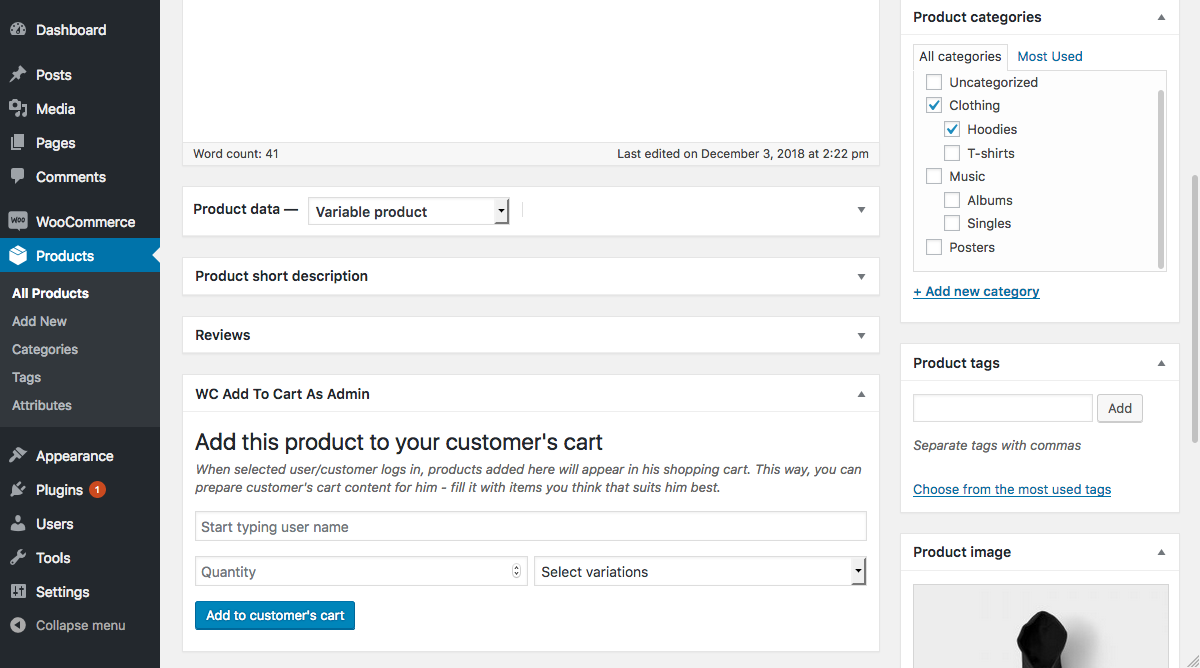
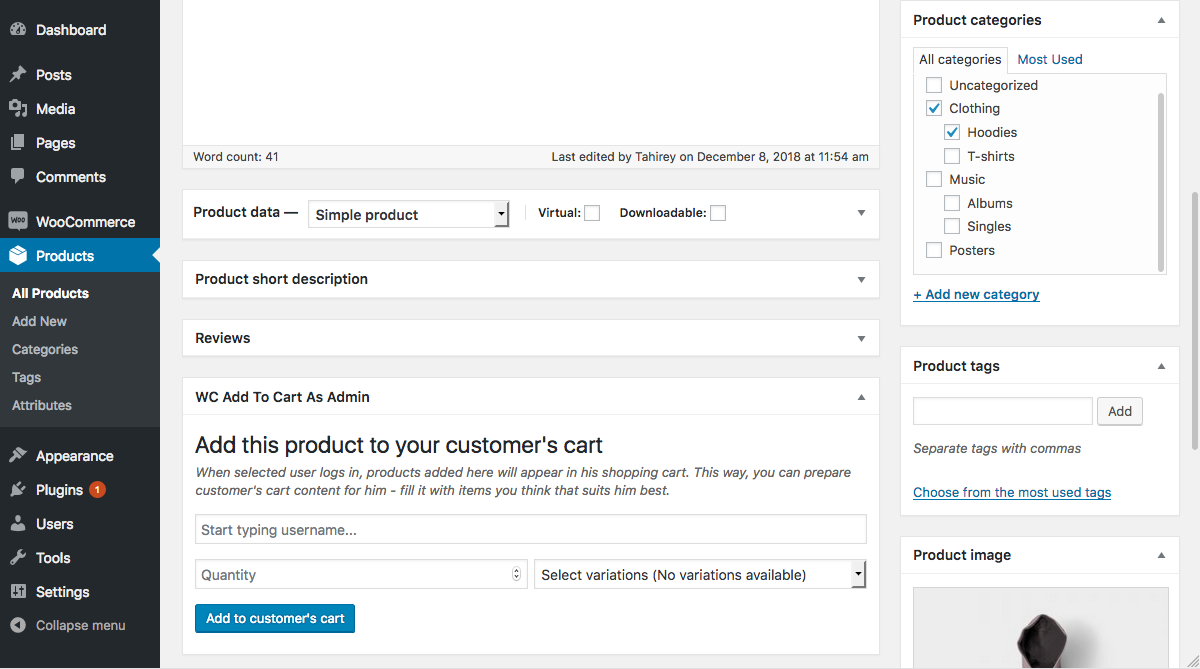
Fix and/or update meta box update Info messages, howto text, readme.txt, typos and comments
Remove unnecessary comments
 Fix typos
 Update info messages in ATCAA Meta Box to be more accurate, understandable and self-explainable
 Update info messages behavior in ATCAA meta box to make more logical
 Update and improve howto explanations on ATCAA Overview page and in ATCAA Meta Box
 Update readme.txt description, stable tag, tested up to, known issues and plans for the future.
 Add Changelog and Upgrade Notice sections to readme.txt
 Update ATCAA_VERSION variable
 Update screenshots relevant to these changes

diff --git a/admin/class-atcaa-admin.php b/admin/class-atcaa-admin.php
@@ -113,13 +113,13 @@ class ATCAA_admin
         <!-- Description -->
         <div class='atcaa-title-and-description'>
             <h1>" . __('Add this product to your customer\'s cart', ATCAA_TEXT_DOMAIN) . "</h1>
-            <span class='howto'>" . __('When selected user/customer logs in, products added here will appear in his shopping cart. 
+            <span class='howto'>" . __('When selected user logs in, products added here will appear in his shopping cart. 
             This way, you can prepare customer\'s cart content for him - fill it with items you think that suits him best. ', ATCAA_TEXT_DOMAIN) . "</span>
         </div>
 
         <!-- ATCAA form fields -->
         <div class='atcaa-form'>
-            <input  type='text' name='user_name' id='user_name' placeholder='" . __('Start typing user name', ATCAA_TEXT_DOMAIN) . "' form=" . self::FORM_ID . " />
+            <input  type='text' name='user_name' id='user_name' placeholder='" . __('Start typing username...', ATCAA_TEXT_DOMAIN) . "' form=" . self::FORM_ID . " />
             <input  type='number' name='quantity' id='quantity' placeholder='" . __('Quantity', ATCAA_TEXT_DOMAIN) . "' form=" . self::FORM_ID . " />
             <select type='text' name='variations' title='Variations' form=" . self::FORM_ID . "> " . self::render_dropdown_options() . "</select>" . "
             <input  type='hidden' name='product_id' value=" . wc_get_product()->get_id() . " form=" . self::FORM_ID . " />
@@ -172,7 +172,7 @@ class ATCAA_admin
 
         /* Get names */
         $name = $wpdb->esc_like(stripslashes($_POST['user_name'])) . '%'; // escape for use in LIKE statement
-        $query = "SELECT * FROM {$wpdb->prefix}users WHERE display_name LIKE %s ORDER BY user_login ASC"; //todo add dynamic prefix
+        $query = "SELECT * FROM {$wpdb->prefix}users WHERE display_name LIKE %s ORDER BY user_login ASC";
 
         $query = $wpdb->prepare($query, $name);
 
@@ -197,7 +197,7 @@ class ATCAA_admin
     {
 
         global $wpdb;
-        $error_string = $price = $product_level_stock = $stock_status = '';
+        $error_string = $price = $product_level_stock = $stock_status = $incompatible_product_type = '';
 
         /* Required fields validation */
         $empty_fields = array();
@@ -218,77 +218,86 @@ class ATCAA_admin
         $product_id = atcaa_prepare($_POST["product_id"]);
         $user_name = atcaa_prepare($_POST["user_name"]);
         $variation_id = atcaa_prepare($_POST["variations"]);
+        if ($variation_id !== '') {
+            $product_id = $variation_id;
+        }
 
 
         /* Get product info relevant for input validation */
         $product_level_stock = get_post_meta($product_id, '_manage_stock', true);
         $stock_status = get_post_meta($product_id, '_stock_status', true);
         $price = get_post_meta($product_id, '_price', true);
-        $variation_price = get_post_meta($variation_id, '_price', true);
-        $variation_stock_status = get_post_meta($variation_id, '_stock_status', true);
+        $_product = wc_get_product( $product_id );
+        if( $_product->is_type( 'grouped') || $_product->is_type( 'external') ) {
+            $incompatible_product_type = true;
+        }
 
 
         /* Start building $error_string */
-        if ($empty_fields !== "") {
-            $error_string .= "<div class='atcaa-message atcaa-message-error'>" . __('Cart could not be updated. Field(s) ', ATCAA_TEXT_DOMAIN) . "<b>" . $empty_fields . "</b>" . __(' is/are required. Please try again.', ATCAA_TEXT_DOMAIN) . "</div>";
+        if ($_product->is_type( 'grouped')) {
+            $error_string .= "<div class='atcaa-message atcaa-message-error'>" . __('Sorry, this plugin is not compatible with ', ATCAA_TEXT_DOMAIN) . "<b>" . __('grouped ', ATCAA_TEXT_DOMAIN) . "</b>" . __('product type.', ATCAA_TEXT_DOMAIN) . "</div>";
         }
 
-        if ($too_long_fields !== "") {
-            $error_string .= "<div class='atcaa-message atcaa-message-error'>" . __('Cart could not be updated. Field(s) ', ATCAA_TEXT_DOMAIN) . "<b>" . $too_long_fields . "</b>" . __(' is/are too long. Please try again.', ATCAA_TEXT_DOMAIN) . "</div>";;
+        if ($_product->is_type( 'external')) {
+            $error_string .= "<div class='atcaa-message atcaa-message-error'>" . __('You cannot add ', ATCAA_TEXT_DOMAIN) . "<b>" . __('external ', ATCAA_TEXT_DOMAIN) . "</b>" . __('product to user\'s cart.', ATCAA_TEXT_DOMAIN) . "</div>";
         }
 
-        /* Don't even start checking anything related to price and stock of 'product level stock' option is turned on */
         if ($product_level_stock !== 'no') {
-            $error_string .= "<div class='atcaa-message atcaa-message-error'>" . __('Cart could not be updated. WC Add To Cart As Admin plugin is not compatible with', ATCAA_TEXT_DOMAIN) . "<b>" . __(' stock management at product level', ATCAA_TEXT_DOMAIN) . "</b>" . __(' WooCommerce option.', ATCAA_TEXT_DOMAIN) . "</div>";
-        } else {
+            $error_string .= "<div class='atcaa-message atcaa-message-error'>" . __('Sorry, this plugin is not compatible with', ATCAA_TEXT_DOMAIN) . "<b>" . __(' stock management at product level', ATCAA_TEXT_DOMAIN) . "</b>" . __(' WooCommerce option.', ATCAA_TEXT_DOMAIN) . "</div>";
+        }
 
-            /* Check price and stock status for simple products */
-            if ($variation_id == '') {
-                if ($price == '') {
-                    $error_string .= "<div class='atcaa-message atcaa-message-error'>" . __('Cart could not be updated.', ATCAA_TEXT_DOMAIN) . "<b>" . __(' Items without price', ATCAA_TEXT_DOMAIN) . "</b>" . __(' cannot be added to user cart.', ATCAA_TEXT_DOMAIN) . "</div>";
-                }
-                if($stock_status !== 'instock') {
-                    $error_string .= "<div class='atcaa-message atcaa-message-error'>" . __('Cart could not be updated. Item is currently', ATCAA_TEXT_DOMAIN) . "<b>" . __(' out of stock.', ATCAA_TEXT_DOMAIN) . "</b></div>";
-                }
 
-            /* Check price and stock status for variable products */
-            } else {
-                if ($variation_price == '') {
-                    $error_string .= "<div class='atcaa-message atcaa-message-error'>" . __('Cart could not be updated.', ATCAA_TEXT_DOMAIN) . "<b>" . __(' Items without price', ATCAA_TEXT_DOMAIN) . "</b>" . __(' cannot be added to user cart.', ATCAA_TEXT_DOMAIN) . "</div>";
-                }
-                if($variation_stock_status !== 'instock') {
-                    $error_string .= "<div class='atcaa-message atcaa-message-error'>" . __('Cart could not be updated. Item is currently', ATCAA_TEXT_DOMAIN) . "<b>" . __(' out of stock.', ATCAA_TEXT_DOMAIN) . "</b></div>";
-                }
+        /* Don't even start checking anything if 'product level stock' option is turned on, or if product type is incompatible with this plugin */
+        if ($product_level_stock == 'no' && $incompatible_product_type !== true) {
+
+            if ($empty_fields !== "") {
+                $error_string .= "<div class='atcaa-message atcaa-message-error'>" . __('Field(s) ', ATCAA_TEXT_DOMAIN) . "<b>" . $empty_fields . "</b>" . __(' is/are required. Please try again.', ATCAA_TEXT_DOMAIN) . "</div>";
             }
-        }
 
-        $query = "SELECT ID FROM {$wpdb->prefix}users WHERE display_name = '$user_name' LIMIT 1";
-        $user_id = $wpdb->get_results($query);
+            if ($too_long_fields !== "") {
+                $error_string .= "<div class='atcaa-message atcaa-message-error'>" . __('Field(s) ', ATCAA_TEXT_DOMAIN) . "<b>" . $too_long_fields . "</b>" . __(' is/are too long. Please try again.', ATCAA_TEXT_DOMAIN) . "</div>";
+            }
+
+            if ($price == '') {
+                $error_string .= "<div class='atcaa-message atcaa-message-error'><b>" . __(' Items without price ', ATCAA_TEXT_DOMAIN) . "</b>" . __('cannot be added to user cart.', ATCAA_TEXT_DOMAIN) . "</div>";
+            }
+
+            if($stock_status !== 'instock') {
+                $error_string .= "<div class='atcaa-message atcaa-message-error'>" . __('Item is currently', ATCAA_TEXT_DOMAIN) . "<b>" . __(' out of stock.', ATCAA_TEXT_DOMAIN) . "</b></div>";
+            }
+
+            $query = "SELECT ID FROM {$wpdb->prefix}users WHERE display_name = '$user_name' LIMIT 1";
+            $user_id = $wpdb->get_results($query);
 
 
-        if (count($user_id) == 0 && $user_name !== '') {
-            $error_string .=  "<div class='atcaa-message atcaa-message-error'>" . __('User ', ATCAA_TEXT_DOMAIN) . "<b>" . $user_name . "</b>" . __(' does not exists. Please try again.', ATCAA_TEXT_DOMAIN) . "</div>";
-        }
+            if (count($user_id) == 0 && $user_name !== '') {
+                $error_string .=  "<div class='atcaa-message atcaa-message-error'>" . __('User ', ATCAA_TEXT_DOMAIN) . "<b>" . $user_name . "</b>" . __(' does not exists. Please try again.', ATCAA_TEXT_DOMAIN) . "</div>";
+            }
 
 
-        /* Execute if $error_string is empty */
-        if ($error_string == '') {
-            $query = "INSERT INTO {$wpdb->prefix}atcaa_prepared_items (";
-            $query .= "user_id, quantity, product_id, variation_id";
-            $query .= ") values ('";
-            $query .= $user_id[0]->ID . "', '";
-            $query .= $quantity . "', '";
-            $query .= $product_id . "', '";
-            $query .= $variation_id . "')";
+            /* Execute if $error_string is empty */
+            if ($error_string == '') {
+                $query = "INSERT INTO {$wpdb->prefix}atcaa_prepared_items (";
+                $query .= "user_id, quantity, product_id, variation_id";
+                $query .= ") values ('";
+                $query .= $user_id[0]->ID . "', '";
+                $query .= $quantity . "', '";
+                $query .= $product_id . "', '";
+                $query .= $variation_id . "')";
 
-            $wpdb->get_results($query);
+                $wpdb->get_results($query);
 
-            if ($wpdb->last_error) {
-                $error_string .= "<div class='atcaa-message atcaa-message-error'>" . __('Could not connect: ', ATCAA_TEXT_DOMAIN) . $wpdb->last_error . "</div>";
+                if ($wpdb->last_error) {
+                    $error_string .= "<div class='atcaa-message atcaa-message-error'>" . __('Could not connect: ', ATCAA_TEXT_DOMAIN) . $wpdb->last_error . "</div>";
+                    echo $error_string;
+                } else {
+                    echo "<div class='atcaa-message atcaa-message-success'>" . $user_name . __(' cart will be updated on login. ', ATCAA_TEXT_DOMAIN) . "<a href='" . admin_url( 'admin.php?page=wc-add-to-cart-as-admin-overview') . "' target='_blank'>" . __('View all prepared items.', ATCAA_TEXT_DOMAIN) . "</a></div>";
+                }
+
+            } else {
                 echo $error_string;
-            } else {
-                echo "<div class='atcaa-message atcaa-message-success'>" . $user_name . __(' cart will be updated on login. ', ATCAA_TEXT_DOMAIN) . "<a href='" . admin_url( 'admin.php?page=wc-add-to-cart-as-admin-overview') . "' target='_blank'>" . __('View all prepared items.', ATCAA_TEXT_DOMAIN) . "</a></div>";
             }
+
         } else {
             echo $error_string;
         }
@@ -326,7 +335,8 @@ class ATCAA_admin
             <h2>" . __('WC Add To Cart As Admin Overview', ATCAA_TEXT_DOMAIN) . "</h2>
             <div class='atcaa-overview-holder'>
                 <div class='atcaa-overview-info howto'>
-                    <span>" . __('These items will be added to user\'s cart when he logs in.', ATCAA_TEXT_DOMAIN) . "
+                    <span>" . __('These items will be added to user\'s cart when he logs in. Until then, you can remove items added by mistake.', ATCAA_TEXT_DOMAIN) . "
+                    <br />
                     " . __('After user place order, items for that user will be automatically removed from this page.', ATCAA_TEXT_DOMAIN) . "
                     </span>
                 </div>

diff --git a/wc-add-to-cart-as-admin.php b/wc-add-to-cart-as-admin.php
@@ -3,7 +3,7 @@
  * Plugin Name:     WC Add To Cart As Admin
  * Plugin URI:      https://github.com/tahireu/wc_add_to_cart_as_admin
  * Description:     Add products to your customer's cart from WP admin side.
- * Version:         1.0.0
+ * Version:         1.0.1
  * Author:          Tahireu
  * Author URI:      https://github.com/tahireu/
  * License:         GPLv2 or later
@@ -14,7 +14,8 @@
 /*
  * Prevent intruders from sneaking around
  * */
-defined( 'ABSPATH' ) or die( 'No script kiddies please!' );
+defined( 'ABSPATH' ) or die( 'No script kiddi
+es please!' );
 
 
 /*
@@ -42,7 +43,7 @@ if ( is_plugin_active( 'woocommerce/woocommerce.php' ) ) {
      * This should be updated as new versions are released
      * */
     if( !defined( 'ATCAA_VERSION' ) ) {
-        define( 'ATCAA_VERSION', '1.0.0' );
+        define( 'ATCAA_VERSION', '1.0.1' );
     }
 
 
